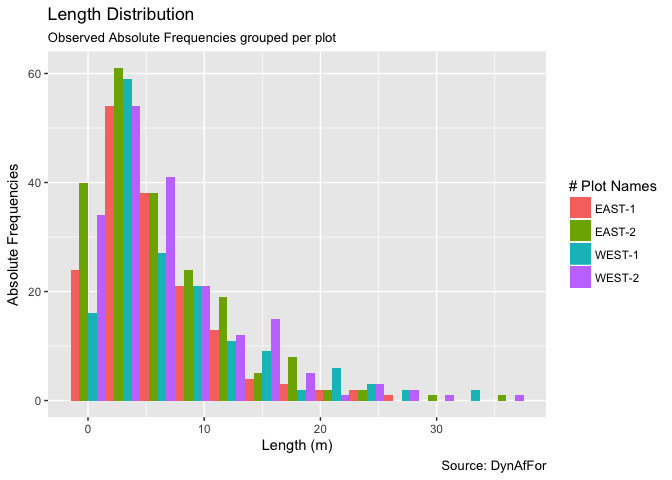
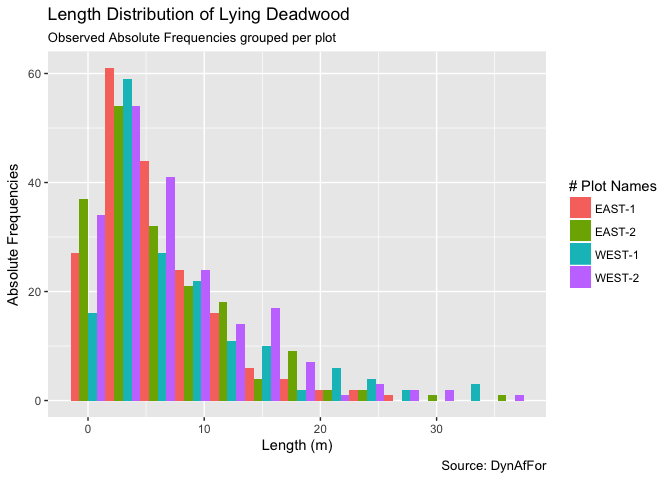
with text

diff --git a/analyses/CarbonPools.md b/analyses/CarbonPools.md
@@ -8,7 +8,10 @@ Lattifa Fofana, Aimé Kouassi, Eric Forni, Sylvie Gourlet-Fleury & Bruno Héraul
     -   [Descriptive Statistics](#descriptive-statistics)
         -   [Lying Deadwood](#lying-deadwood)
         -   [Standing Deadwood](#standing-deadwood)
+    -   [Estimating Carbon Pool Values](#estimating-carbon-pool-values)
         -   [Lying Volumes](#lying-volumes)
+        -   [Standing Volumes](#standing-volumes)
+        -   [Standing versus Lying Volumes](#standing-versus-lying-volumes)
     -   [Estimating Carbon Pool Variabilities](#estimating-carbon-pool-variabilities)
 -   [Small Stems](#small-stems)
     -   [Descriptive Statistics](#descriptive-statistics-1)
@@ -16,7 +19,7 @@ Lattifa Fofana, Aimé Kouassi, Eric Forni, Sylvie Gourlet-Fleury & Bruno Héraul
         -   [DBH Distribution](#dbh-distribution)
         -   [Height Distribution](#height-distribution)
         -   [Basic Correlations](#basic-correlations)
-    -   [Estimating Carbon Pool Values](#estimating-carbon-pool-values)
+    -   [Estimating Carbon Pool Values](#estimating-carbon-pool-values-1)
     -   [Estimating Carbon Pool Variabilities](#estimating-carbon-pool-variabilities-1)
 -   [AboveGround Biomass](#aboveground-biomass)
     -   [Basic Checks](#basic-checks)
@@ -45,17 +48,43 @@ Descriptive Statistics
 
 ![](CarbonPools_files/figure-markdown_github/D%20density-1.png)
 
+-   Hypothesis - A few logging tracks have been seen in WEST plots. More lying deadwoods are expected there.
+
+-   Results - No obvious difference between WEST and EAST
+
+-   Discussion - The already-seen logging tracks have not impacted large trees.
+
 #### Diameter
 
 ![](CarbonPools_files/figure-markdown_github/DBH%20distribution-1.png)
+
+-   Hypothesis - In a mature forest, deadwoods are mostly young trees suppressed by competition with large trees
+
+-   Results - A somewhat exponential decrease of DBH distribution
+
+-   Discussion - We have a mature forest in hand, no obvious difference between plots
 
 #### Length
 
 ![](CarbonPools_files/figure-markdown_github/Length%20distribution-1.png)
 
+-   Hypothesis - In a mature forest, deadwoods are mostly young trees with low heights (lengths) suppressed by competition with large trees
+
+-   Results - A somewhat exponential decrease of length (height) distribution
+
+-   Discussion - We have a mature forest in hand, no obvious difference between plots
+
 #### Diameter-Length
 
+    ## `geom_smooth()` using method = 'loess'
+
 ![](CarbonPools_files/figure-markdown_github/DBH-Length-1.png)
+
+-   Hypothesis - Because of allometric relationships, we expect a positive correlation between length and DBH
+
+-   Results - A weak tendency but a very large variability around this tendency
+
+-   Discussion - We have two hypothesis to explain the weak link. (i) Decay rates are not homogeneous along the bole so that we have some parts fully decomposed and other parts almost-intact. This leads to a decoupling between length and DBH. (ii) Many boles/branches were broken at the time of falling. this may explain why we have many short pieces of large DBH
 
 ### Standing Deadwood
 
@@ -63,17 +92,94 @@ Descriptive Statistics
 
 ![](CarbonPools_files/figure-markdown_github/standing%20density-1.png)
 
+-   Hypothesis - No difference between blocks/plots
+
+-   Results - It seems that there is more standing deadwood on the WEST plots. to be verified with a statistical test (later)
+
+-   Discussion - It looks like the WEST forest/plots is more senescent than the EAST forest/plots. We should have a look to the small stems density to verify this hypothesis.
+
 #### DBH
 
 ![](CarbonPools_files/figure-markdown_github/standing%20DBH-1.png)
 
+-   Hypothesis - In a mature forest, deadwoods are mostly young trees suppressed by competition with large trees.
+
+-   Results - A somewhat exponential decrease of DBH distribution. Note that in WEST-2, small DBH are over-represented.
+
+-   Discussion - We have a mature forest in hand.
+
 #### Height
 
-![](CarbonPools_files/figure-markdown_github/standing%20Height-1.png) \#\#\#\# Diameter-Height ![](CarbonPools_files/figure-markdown_github/Height-Diameter-1.png) \#\# Estimating Carbon Pool Values
+![](CarbonPools_files/figure-markdown_github/standing%20Height-1.png)
+
+-   Hypothesis - In a mature forest, standing deadwoods are mostly young trees with low heights (lengths) suppressed by competition with large trees
+
+-   Results - A somewhat exponential decrease of height distribution
+
+-   Discussion - We have a mature forest in hand, no obvious difference between plots
+
+#### Diameter-Height
+
+    ## `geom_smooth()` using method = 'loess'
+
+![](CarbonPools_files/figure-markdown_github/Height-Diameter-1.png)
+
+-   Hypothesis - Because of allometric relationships, we expect a positive correlation between length and DBH
+
+-   Results - A very weak tendency but a very large variability around this tendency
+
+-   Discussion -Many boles/branches were broken at (or after) the time of death. This may explain why we have many short standing boles with large DBH
+
+Estimating Carbon Pool Values
+-----------------------------
 
 ### Lying Volumes
 
-![](CarbonPools_files/figure-markdown_github/Lying%20Volumes-1.png) \#\#\# Standing Volumes ![](CarbonPools_files/figure-markdown_github/Standing%20Volumes-1.png)
+![](CarbonPools_files/figure-markdown_github/Lying%20Volumes-1.png)
+
+-   Hypothesis - A few logging tracks have been seen in WEST plots. More lying deadwood volumes are expected there.
+
+-   Results - A subtle difference between WEST and EAST. Not statistically significant.
+
+-   Discussion - The already-seen logging tracks have not strongly impacted large trees.
+
+### Standing Volumes
+
+![](CarbonPools_files/figure-markdown_github/Standing%20Volumes-1.png)
+
+-   Hypothesis - No difference between blocks/plots
+
+-   Results - It seems that there is more standing deadwood on the WEST-1 plot. to be verified with a statistical test (later)
+
+-   Discussion - These results confirm what we have already seen on the density analysis. It looks like the WEST forest/plots is more senescent than the EAST forest/plots. We should have a look to the small stems density to verify this hypothesis.
+
+### Standing versus Lying Volumes
+
+    ## `geom_smooth()` using method = 'loess'
+
+![](CarbonPools_files/figure-markdown_github/StandingLying%20Density-1.png)
+
+-   Hypothesis 1 - All plots have similar maturity levels. In this case, we do expect no relationships between standing and lying deadwoods OR a negative relationships if total volumes remain stable and standing/lying compensate each other.
+
+-   Hypothesis 2 - Plots have different maturity levels. In this case, we do expect a positive relationship between standing and lying deadwoods with LOW standing/lying values for young patches and HIGH standing/lying values for senescent patches.
+
+-   Results - No obvious correlation. A tiny tendency for negative relationships.
+
+-   Discussion - All plots have similar maturity levels.
+
+<!-- -->
+
+    ## `geom_smooth()` using method = 'loess'
+
+![](CarbonPools_files/figure-markdown_github/StandingLying%20Volumes-1.png)
+
+-   Hypothesis 1 - All plots have similar maturity levels. In this case, we do expect no relationships between standing and lying deadwoods OR a negative relationships if total volumes remain stable and standing/lying compensate each other.
+
+-   Hypothesis 2 - Plots have different maturity levels. In this case, we do expect a positive relationship between standing and lying deadwoods with LOW standing/lying values for young patches and HIGH standing/lying values for senescent patches.
+
+-   Results - No correlation at all.
+
+-   Discussion - It looks like standing and lying volumes are ramdomly distributed.
 
 Estimating Carbon Pool Variabilities
 ------------------------------------
@@ -88,19 +194,43 @@ Descriptive Statistics
 
 ![](CarbonPools_files/figure-markdown_github/DS_SS-1.png)
 
+-   Hypothesis - Similar maturity levels, no difference between block/plots.
+
+-   Results - No obvious difference. On average 5000 stem/ha.
+
+-   Discussion - Similar maturity levels. The number of small stems is more than 10 times the number of DBH&gt;10 trees.
+
 ### DBH Distribution
 
 ![](CarbonPools_files/figure-markdown_github/DBH_SS-1.png)
 
+-   Hypothesis - In a mature forest, we expect a negative exponential distribution
+
+-   Results - A somewhat exponential decrease of DBH distribution
+
+-   Discussion - We have a mature forest in hand, no obvious difference between plots
+
 ### Height Distribution
 
 ![](CarbonPools_files/figure-markdown_github/HEIGHT_SS-1.png)
+
+-   Hypothesis - In a mature forest, we expect a negative exponential distribution
+
+-   Results - A somewhat exponential decrease of height distribution
+
+-   Discussion - We have a mature forest in hand, no obvious difference between plots
 
 ### Basic Correlations
 
     FALSE `geom_smooth()` using method = 'gam'
 
 ![](CarbonPools_files/figure-markdown_github/SS%20dbh%20height-1.png)
+
+-   Hypothesis - Because of allometric relationships, we expect a positive correlation between height and DBH
+
+-   Results - A positive and significant relationship
+
+-   Discussion - Allometric relationship verified, can be used, in the future, to infer small\_stem\_AGB when height not available.
 
 Estimating Carbon Pool Values
 -----------------------------
@@ -111,6 +241,12 @@ Estimating Carbon Pool Values
     ## Your taxonomic table contains 410 taxa
 
 ![](CarbonPools_files/figure-markdown_github/agb%20SS-2.png)
+
+-   Hypothesis - From the literature analysis, we expect that the small stem biomass will be no more than 5-10% of the total biomass
+
+-   Results - Small stem biomass in our subplot is between 10 and 20 T/ha. No obvious difference between plots.
+
+-   Discussion - Assuming a total AGB between 300-400 T/ha, the proportion of this biomass is about 2.5-5% of the total AGB. Very low!
 
 Estimating Carbon Pool Variabilities
 ------------------------------------
@@ -140,5 +276,7 @@ Small Stems versus Large Stems
 ------------------------------
 
     ## Warning: Ignoring unknown aesthetics: xmin, xmax
+
+    ## `geom_smooth()` using method = 'loess'
 
 ![](CarbonPools_files/figure-markdown_github/ss%20vs%20ls-1.png)
